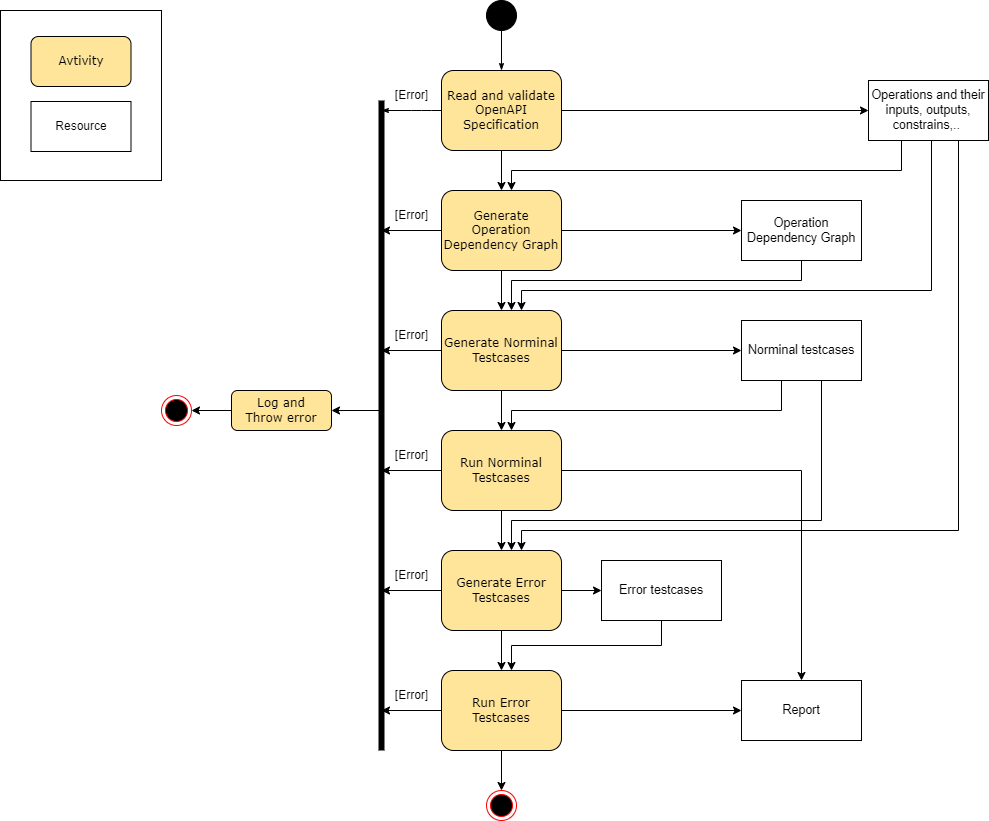
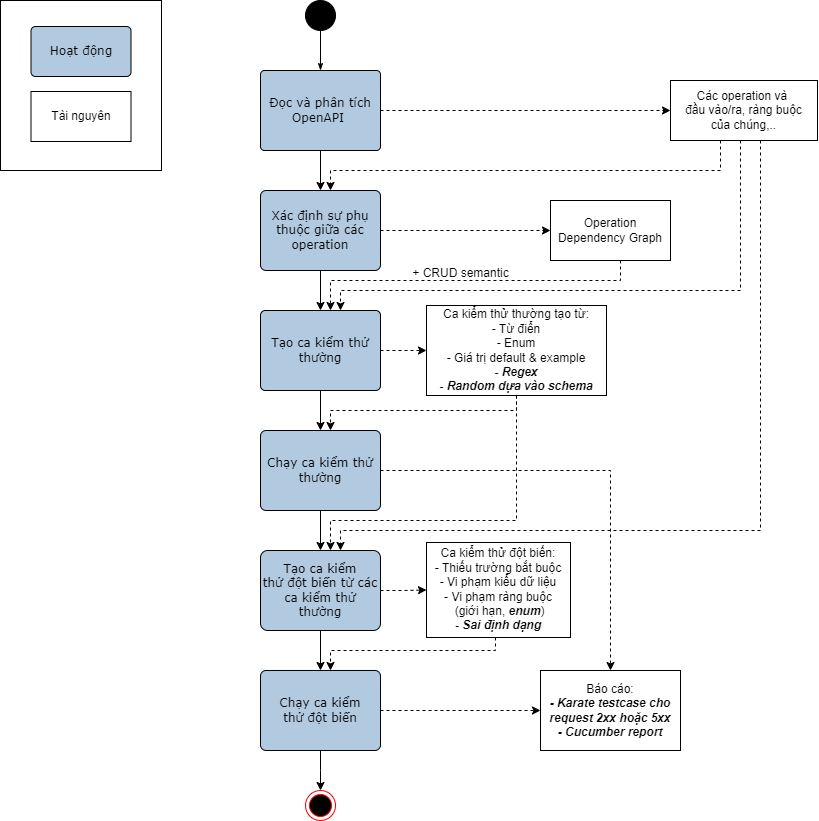
Docs: update README.md

diff --git a/README.md b/README.md
@@ -1,41 +1,22 @@
-# TESTREST
+# GenoTeD
+
+## Introduction
+
+Based on the algorithmic idea of the automated testing tool
+[RestTestGen](https://ieeexplore.ieee.org/abstract/document/9159077), generating test input data for the API in a sequence of related operations, creating both test cases for normal cases and test cases for error cases. Thereby,
+creates a comprehensive testing method with practical applications, solving the need to
+write test inputs for APIs quickly and at a low cost.
+
+Not only does it overcome the
+limitations of RestTestGen, the proposed tool - GenoTeD also excels in terms of error
+finding efficiency and comprehensiveness. In particular, GenoTeD has surpassed the reference solution in terms of bug finding efficiency. This has been demonstrated in the experiment, GenoTeD found 45 more bugs than RestTestGen,
+a 26% increase in the total number of bugs found by RestTestGen in 6 different APIs. In addition, the generated data is more user-friendly and closer to reality than
+RestTestGen's random data. Moreover, GenoTeD also integrates Karate and Cucumber to generate readable and reusable test cases, along with an intuitive reporting interface, enhancing the usability and practical applicability
+of the tool.
 
 ## Workflow
 
+The following graph illustrates the workflow of GenoTeD, which mostly based on the design of RestTestGen.
+Notably, the bold parts are the improvements compared to RestTestGen.
+
 ![](src/main/resources/img/workflow.png)
-
-## Approach
-
-### Generating Operation Dependency Graph
-
-- Computes Operation Dependency Graph (ODG) - models data dependencies among operations, helps in sorting the operations to test depending on their data dependencies (E.g: oper1's output is the input for oper2 -> test oper1 first)
-
-### Construction
-
-- A directed graph G = (N, V):
-N is the node represents an operation, v is the edge with
-v = n2 → n1, when there exists a data dependency between
-n2 (request, input) and n1 (response, output).
-- n1 should be tested before n2.
-
-### Dependency Inference
-
-Comparison operators used to
-match field names:
-
-- Case insensitive: The comparison is case insensitive,
-to work around developer mistakes in using a consistent
-casing across operations;
-- Id completion: add prefix to a field named *id*
-  - If it is a field of a structured
-object, the prefix is the name of the object. E.g., the
-field *id* of the object pet is renamed *petId*.
-  - If this field is not part of a structured object, it
-is prefixed with the name of the operation in which
-it is involved, after removing get/set verbs from the operation name. E.g, the operation getPet becomes Pet after removing the verb “get”, and it is
-used to change the field *id* into *petId*; (???)
-- Stemming: Using Porter Stemming algorithm to each parameter name to compare. E.g, pet & pets are considered the same as the root pet.
-
-## Implementation
-
-- Sử dụng [Swagger parser](https://github.com/swagger-api/swagger-parser)
